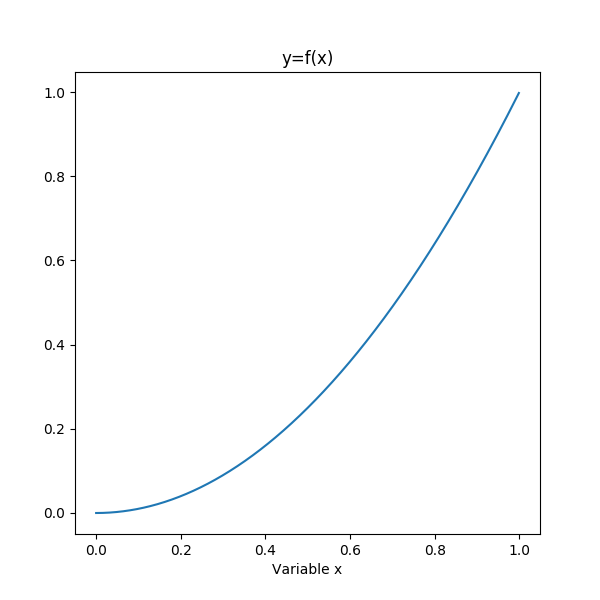
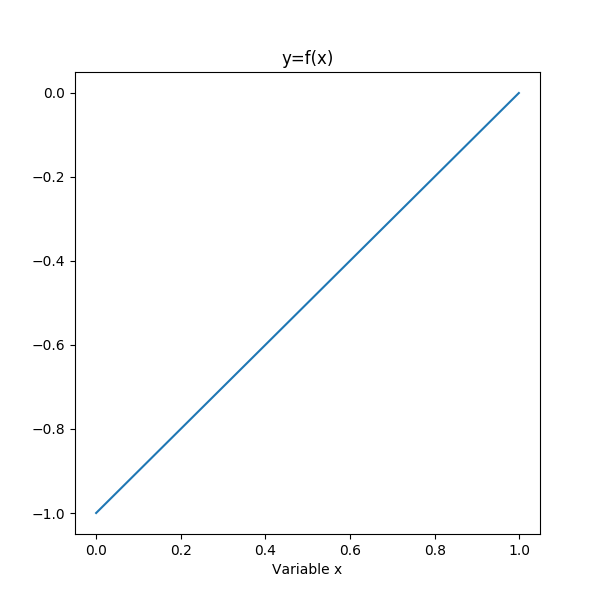
Unsuccessfully debugging uploading image

diff --git a/calcs/static/main.js b/calcs/static/main.js
@@ -50,7 +50,7 @@ $(document).ready(function() {
 
             .done(function (data) {
                 $('#graph-container').empty();
-                $('<img>', {src:"http://0.0.0.0:5000/media/plt.png"}).appendTo('#graph-container');
+                $('<img>', {src:"http://0.0.0.0:5000/media/plt2.png"}).appendTo('#graph-container');
             })
 
         e.preventDefault();

diff --git a/calcs/main.py b/calcs/main.py
@@ -1,6 +1,7 @@
 import os
 
-from flask import Flask, render_template, request, redirect, url_for, flash, jsonify, send_from_directory
+from flask import Flask, render_template, request, redirect,\
+    url_for, flash, jsonify, send_from_directory, send_file
 from flask_login import LoginManager, UserMixin, login_required,\
     login_user, logout_user, current_user
 import json
@@ -59,10 +60,13 @@ def schedule_calculation():
 @app.route('/graph_request', methods=['POST'])
 def graph_request():
     expression = request.form['expression']
+    xmin = float(request.form['xmin'])
+    xmax = float(request.form['xmax'])
     print(expression)
-    filename = 'plt.png'
-    plot_function(expression, 0, 1)
-    return send_from_directory(os.path.join(os.getcwd(), 'media'), filename, as_attachment=False)
+    filename = 'plt2.png'
+    plot_function(expression, xmin, xmax)
+    print(os.getcwd() + '/media/'+ filename)
+    return send_file(os.getcwd() + '/media/' + filename, as_attachment=True)
 
 
 @app.route('/graph')

diff --git a/calcs/views/graphing.py b/calcs/views/graphing.py
@@ -14,7 +14,7 @@ from views.exceptions import *
 from views.convert_to_rpn import rpn
 from views.implement_rpn import compute_rpn
 
-filepath = 'media/'
+filepath = '/media/'
 
 variable_name = 'x'
 settings = {
@@ -44,7 +44,7 @@ def implementable_function(s: str):
     return func
 
 
-def plot_function(s: str, xmin: int or float, xmax: int or float, npoints=1000, settings=settings):
+def plot_function(s: str, xmin: int or float, xmax: int or float, npoints=10, settings=settings):
     assert npoints > 0
     assert xmin < xmax
     func_val = []
@@ -62,7 +62,7 @@ def plot_function(s: str, xmin: int or float, xmax: int or float, npoints=1000, 
     plt.plot(xvals, func_val)
     plt.title(settings['title'])
     plt.xlabel(settings['xlabel'])
-    plt.savefig(os.path.join(filepath, 'plt.png'))
+    plt.savefig(os.getcwd() + filepath + 'plt2.png')
     # plt.show()
 
 
